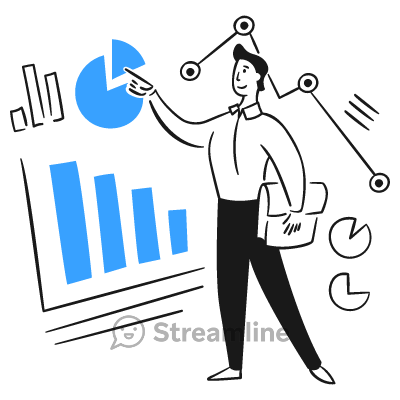
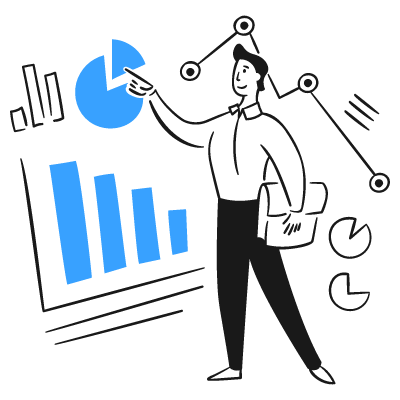
improve dark mode

Changed region(s): [[0.27, 0.78, 0.57, 0.87], [0.6, 0.81, 0.72, 0.87]]

diff --git a/lib/pages/content_page.dart b/lib/pages/content_page.dart
@@ -4,6 +4,7 @@ import 'package:google_fonts/google_fonts.dart';
 import 'package:markdown_widget/markdown_widget.dart';
 import 'package:mschool_ecommerce/markdown_style_config.dart';
 import 'package:mschool_ecommerce/models/content.dart';
+import 'package:mschool_ecommerce/state_managment/dark_mode_state_manager.dart';
 
 class ContentPage extends ConsumerWidget {
   const ContentPage(this.content, {Key? key}) : super(key: key);
@@ -13,18 +14,20 @@ class ContentPage extends ConsumerWidget {
   Widget build(BuildContext context, WidgetRef ref) {
     bool isPortrait =
         MediaQuery.of(context).orientation == Orientation.portrait;
+    final isDarkMode = ref.watch(darkModeStateManagerProvider);
+
     return SafeArea(
       child: SingleChildScrollView(
         padding: const EdgeInsets.symmetric(horizontal: 20, vertical: 20),
         child: Column(
           children: [
             Image.asset(
-              content.image!,
+              isDarkMode ? content.imageDark! : content.image!,
               fit: BoxFit.cover,
               height:
                   MediaQuery.of(context).size.height * (isPortrait ? 0.3 : 0.5),
             ),
-            const SizedBox(height: 16),
+            const SizedBox(height: 20),
             Text(
               content.title!,
               textAlign: TextAlign.center,
@@ -37,7 +40,7 @@ class ContentPage extends ConsumerWidget {
                 ),
               ),
             ),
-            const SizedBox(height: 16),
+            const SizedBox(height: 30),
             Column(
               crossAxisAlignment: CrossAxisAlignment.start,
               children: MarkdownGenerator(

diff --git a/lib/pages/welcome_page.dart b/lib/pages/welcome_page.dart
@@ -3,6 +3,7 @@ import 'package:flutter/material.dart';
 import 'package:flutter_riverpod/flutter_riverpod.dart';
 import 'package:google_fonts/google_fonts.dart';
 import 'package:mschool_ecommerce/state_managment/dark_mode_state_manager.dart';
+import 'package:mschool_ecommerce/themes/colors.dart';
 
 class WelcomePage extends ConsumerWidget {
   // final void Function() startLesson;
@@ -14,10 +15,12 @@ class WelcomePage extends ConsumerWidget {
     double height = MediaQuery.of(context).size.height;
     bool isPortrait =
         MediaQuery.of(context).orientation == Orientation.portrait;
+
+    final isDarkMode = ref.watch(darkModeStateManagerProvider);
     return Scaffold(
       appBar: AppBar(
         shape: const Border(top: BorderSide(color: Colors.green, width: 3)),
-        backgroundColor: Theme.of(context).cardColor,
+        backgroundColor: isDarkMode ? AppColors.black : Colors.white,
         centerTitle: false,
         titleSpacing: 0,
         shadowColor: Theme.of(context).shadowColor,

diff --git a/lib/main_screen.dart b/lib/main_screen.dart
@@ -5,6 +5,8 @@ import 'package:flutter/services.dart';
 import 'package:flutter_riverpod/flutter_riverpod.dart';
 import 'package:mschool_ecommerce/models/content.dart';
 import 'package:mschool_ecommerce/pages/content_page.dart';
+import 'package:mschool_ecommerce/state_managment/dark_mode_state_manager.dart';
+import 'package:mschool_ecommerce/themes/colors.dart';
 
 import 'pages/welcome_page.dart';
 
@@ -58,8 +60,11 @@ class _MainScreenState extends ConsumerState<MainScreen> {
 
   @override
   Widget build(BuildContext context) {
+    final isDarkMode = ref.watch(darkModeStateManagerProvider);
+
     return Scaffold(
-      backgroundColor: Theme.of(context).cardColor,
+      backgroundColor:
+          isDarkMode ? AppColors.black : Theme.of(context).cardColor,
       body: PageView.builder(
         onPageChanged: (int newpage) {
           setState(() {

diff --git a/lib/models/content.dart b/lib/models/content.dart
@@ -13,11 +13,13 @@ class Content {
     this.title,
     this.content,
     this.image,
+    this.imageDark,
   });
 
   final String? title;
   final String? content;
   final String? image;
+  final String? imageDark;
 
   Content copyWith({
     String? title,
@@ -28,17 +30,20 @@ class Content {
         title: title ?? this.title,
         content: content ?? this.content,
         image: image ?? this.image,
+        imageDark: imageDark ?? imageDark,
       );
 
   factory Content.fromJson(Map<String, dynamic> json) => Content(
         title: json["title"],
         content: json["content"],
         image: json["image"],
+        imageDark: json["image_dark"],
       );
 
   Map<String, dynamic> toJson() => {
         "title": title,
         "content": content,
         "image": image,
+        "image_dark": imageDark,
       };
 }

diff --git a/lib/themes/colors.dart b/lib/themes/colors.dart
@@ -1,0 +1,6 @@
+import 'package:flutter/material.dart';
+
+class AppColors {
+  // black
+  static const Color black = Color(0xFF2D2D2D);
+}
